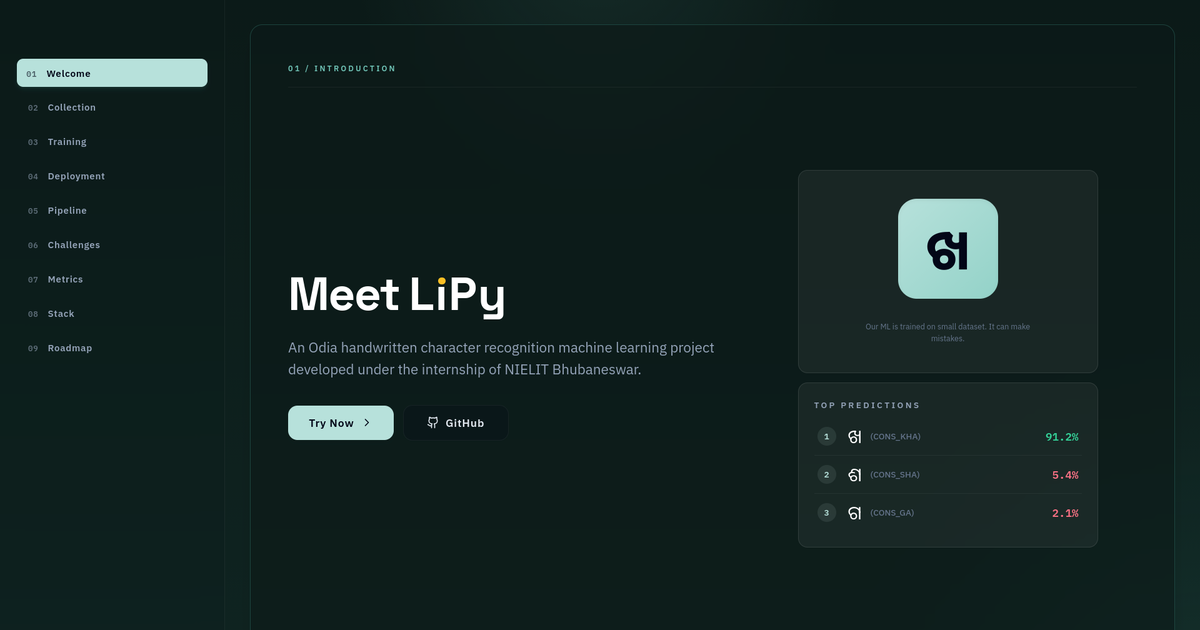
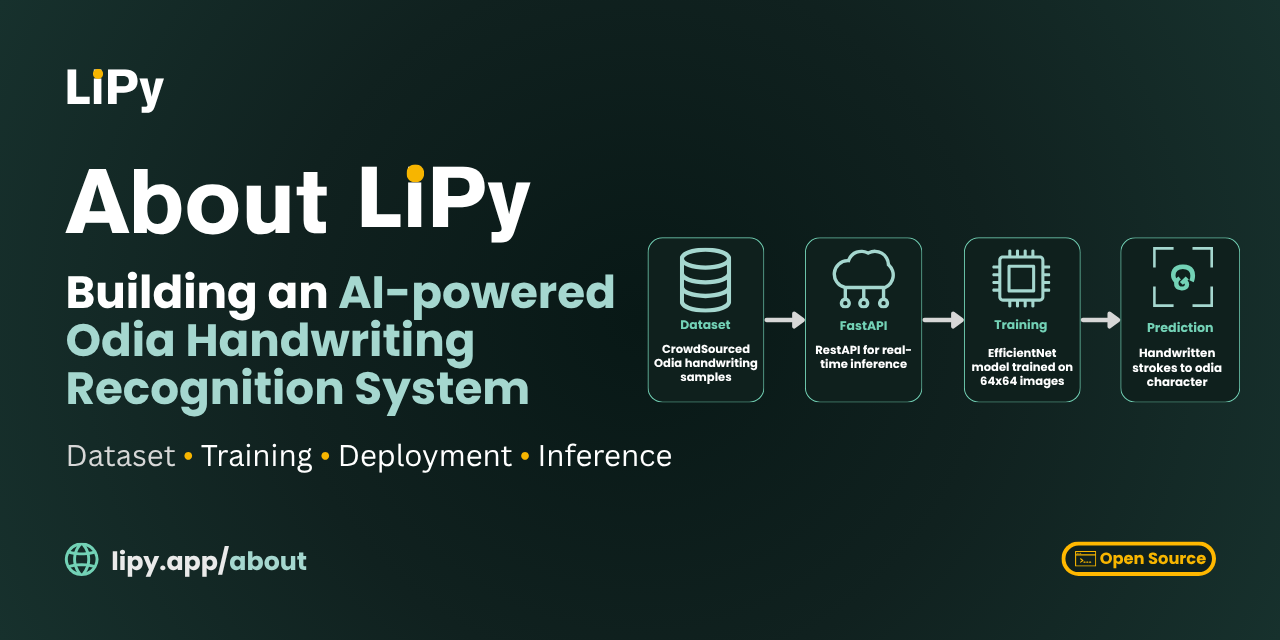
updated og images

diff --git a/frontend/app/page.tsx b/frontend/app/page.tsx
@@ -14,7 +14,7 @@ export const metadata: Metadata = {
       "Draw or upload a handwritten Odia character and LiPy's deep learning OCR identifies it right away — free, no signup needed.",
     images: [
       {
-        url: "/og-ocr.png",
+        url: "/og-default.png",
         width: 1200,
         height: 630,
         alt: "LiPy Odia handwriting recognition web interface showing a character being analyzed by the deep learning OCR model",
@@ -27,7 +27,7 @@ export const metadata: Metadata = {
     title: "Odia Handwriting Recognition",
     description:
       "Draw or upload a handwritten Odia character and LiPy's AI identifies it right away — a free OCR tool for everyone, no signup required.",
-    images: ["/og-ocr.png"],
+    images: ["/og-default.png"],
   },
 
   alternates: {

diff --git a/frontend/app/privacy/page.tsx b/frontend/app/privacy/page.tsx
@@ -17,7 +17,7 @@ export const metadata: Metadata = {
       "LiPy Privacy Policy — how we collect, use, and protect your data when you use our Odia handwritten character recognition platform.",
     images: [
       {
-        url: "/og-ocr.png",
+        url: "/og-default.png",
         width: 1200,
         height: 630,
         alt: "LiPy Privacy Policy",
@@ -30,7 +30,7 @@ export const metadata: Metadata = {
     title: "Privacy Policy | LiPy",
     description:
       "LiPy Privacy Policy — how we collect, use, and protect your data when you use our Odia handwritten character recognition platform.",
-    images: ["/og-ocr.png"],
+    images: ["/og-default.png"],
   },
 };
 

diff --git a/frontend/app/layout.tsx b/frontend/app/layout.tsx
@@ -87,7 +87,7 @@ export const metadata: Metadata = {
     siteName: "LiPy",
     images: [
       {
-        url: "/og-ocr.png",
+        url: "/og-default.png",
         width: 1200,
         height: 630,
         alt: "LiPy Odia handwriting recognition web interface showing a character being analyzed by the deep learning OCR model",
@@ -102,7 +102,7 @@ export const metadata: Metadata = {
     title: "LiPy",
     description:
       "LiPy is an open-source platform that uses deep learning to recognize handwritten Odia characters, build a crowdsourced dataset, and advance OCR research.",
-    images: ["/og-ocr.png"],
+    images: ["/og-default.png"],
   },
 
   robots: {

diff --git a/frontend/app/terms/page.tsx b/frontend/app/terms/page.tsx
@@ -17,7 +17,7 @@ export const metadata: Metadata = {
       "LiPy Terms of Service — the terms governing your use of the LiPy Odia handwritten character recognition platform.",
     images: [
       {
-        url: "/og-ocr.png",
+        url: "/og-default.png",
         width: 1200,
         height: 630,
         alt: "LiPy Terms of Service",
@@ -30,7 +30,7 @@ export const metadata: Metadata = {
     title: "Terms of Service | LiPy",
     description:
       "LiPy Terms of Service — the terms governing your use of the LiPy Odia handwritten character recognition platform.",
-    images: ["/og-ocr.png"],
+    images: ["/og-default.png"],
   },
 };
 

diff --git a/frontend/components/JsonLd.tsx b/frontend/components/JsonLd.tsx
@@ -19,7 +19,7 @@ export function RootJsonLd() {
         "@id": `${baseUrl}/#organization`,
         name: "LiPy",
         url: baseUrl,
-        logo: `${baseUrl}/og-ocr.png`,
+        logo: `${baseUrl}/og-default.png`,
         description:
           "An open academic project for Odia handwritten character recognition, OCR, dataset creation, and machine learning research.",
         foundingDate: "2025",
